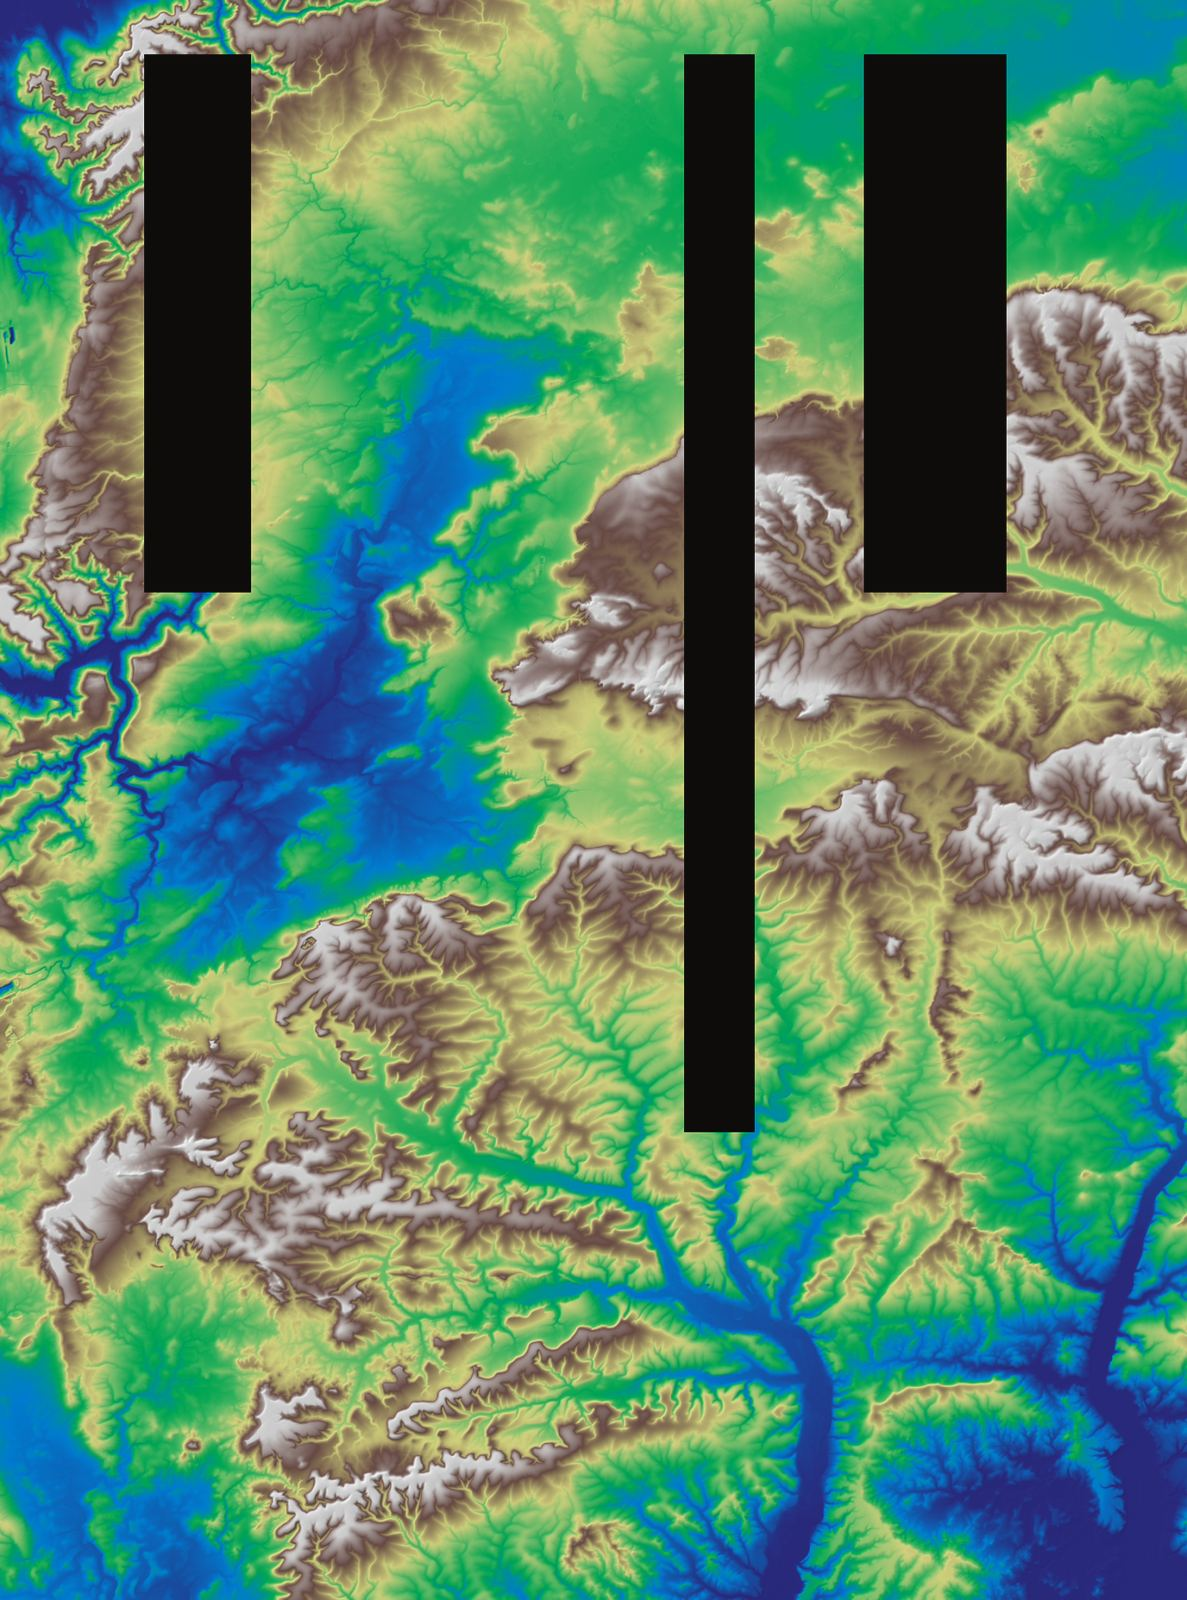
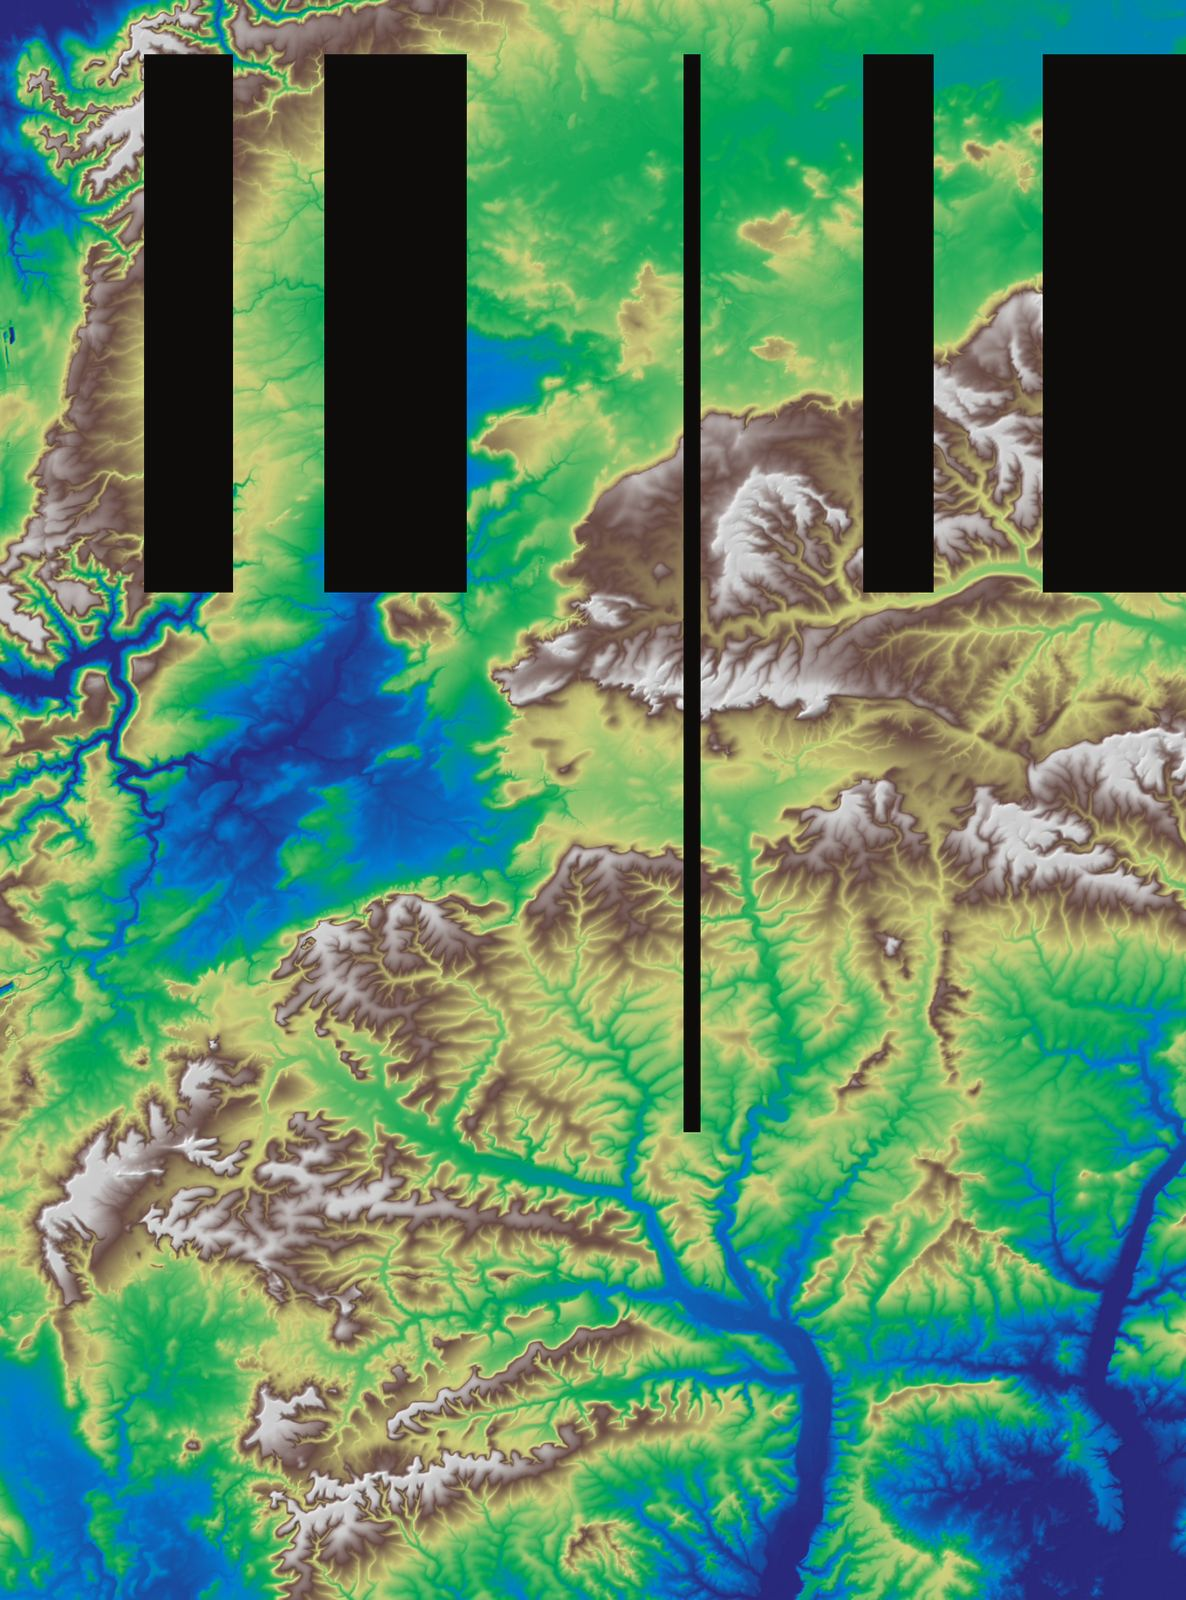
Fix county LiDAR strip-edge black bands and tighten map fit.
Overlap WCS strips by 1000 m and merge with numeric nodata so hillshade
no longer paints abutting-strip gaps as vertical black bands; tighten
default fitBounds padding to [4,4] and drop the outline.js double-fit.

diff --git a/index.html b/index.html
@@ -355,9 +355,9 @@ ROWS.forEach(h => {
 
 const group = L.featureGroup(Object.values(markers));
 if (HAS_OUTLINE && COUNTY_OUTLINE_BOUNDS) {
-  map.fitBounds(COUNTY_OUTLINE_BOUNDS, { padding: [16, 16] });
+  map.fitBounds(COUNTY_OUTLINE_BOUNDS, { padding: [4, 4] });
 } else if (HAS_COUNTY && COUNTY_BOUNDS) {
-  map.fitBounds(COUNTY_BOUNDS, { padding: [12, 12] });
+  map.fitBounds(COUNTY_BOUNDS, { padding: [4, 4] });
 } else {
   map.fitBounds(group.getBounds().pad(0.08));
 }

diff --git a/county-outline.js b/county-outline.js
@@ -46,9 +46,7 @@ function initWiltshireCountyOutline(map) {
         pane: paneName,
         interactive: false
       }).addTo(countyBoundary);
-      try {
-        map.fitBounds(L.polygon(exteriors).getBounds(), { padding: [16, 16] });
-      } catch (e) {}
+      // Zoom owned by generate.py fitBounds(COUNTY_OUTLINE_BOUNDS); do not re-fit here.
     })
     .catch(function(err) { console.warn("Wiltshire outline:", err); });
 }

diff --git a/download_ea_county_dtm.py b/download_ea_county_dtm.py
@@ -1,9 +1,12 @@
-#!/usr/bin/env python3
+#!/usr/bin/env python3
 """Download county-wide EA LIDAR Composite DTM via WCS (heavily downsampled).
 
 Default OSGB bbox covers ceremonial Wiltshire outline (geojson) + ~2 km margin.
 SCALEFACTOR 0.05 → ~20 m cells so a full-county mosaic stays manageable.
 Override with WILTS_COUNTY_BBOX=e0,e1,n0,n1.
+
+Strips overlap (STRIP_OVERLAP_M) so abutting easting windows share valid pixels;
+merge prefers valid data over nodata so hillshade does not paint edge gaps black.
 """
 from __future__ import annotations
 
@@ -30,6 +33,8 @@ UA = {"User-Agent": "wiltshire-long-barrows/1.0 (sarsen.org research)"}
 DEFAULT_BBOX = (372000.0, 438000.0, 114000.0, 203000.0)
 SCALEFACTOR = 0.05  # 1 m × 0.05 → ~20 m
 STRIP_W_M = 14000.0  # wide strips OK at 20 m
+STRIP_OVERLAP_M = 1000.0  # metres of easting overlap between consecutive strips
+NODATA = -9999.0
 
 
 def fetch_strip(e0, e1, n0, n1, out: Path, scalefactor: float) -> Path:
@@ -67,42 +72,80 @@ def fetch_strip(e0, e1, n0, n1, out: Path, scalefactor: float) -> Path:
     return out
 
 
+def _fill_nodata_nearest(grid: np.ndarray, nodata: float) -> np.ndarray:
+    """Fill remaining nodata with nearest valid elevation (keeps hillshade continuous)."""
+    try:
+        from scipy import ndimage
+    except ImportError:
+        print("scipy unavailable — leaving residual nodata unfilled")
+        return grid
+    out = grid.astype(np.float32, copy=True)
+    mask = ~np.isfinite(out) | (out == nodata) | (out < -1000)
+    if not mask.any() or mask.all():
+        return out
+    valid = ~mask
+    idx = ndimage.distance_transform_edt(mask, return_distances=False, return_indices=True)
+    filled = out[tuple(idx)]
+    out[mask] = filled[mask]
+    # Only fill interior gaps; keep true outside envelope as nodata if original edge was nodata
+    # (distance fill above fills everything — acceptable for county mosaic hillshade)
+    return out
+
+
 def main() -> None:
     env = os.environ.get("WILTS_COUNTY_BBOX")
     if env:
         e0, e1, n0, n1 = [float(x) for x in env.split(",")]
     else:
         e0, e1, n0, n1 = DEFAULT_BBOX
-    print(f"county target E {e0:.0f}–{e1:.0f} N {n0:.0f}–{n1:.0f}  SCALEFACTOR={SCALEFACTOR}")
+    print(
+        f"county target E {e0:.0f}–{e1:.0f} N {n0:.0f}–{n1:.0f}  "
+        f"SCALEFACTOR={SCALEFACTOR}  overlap={STRIP_OVERLAP_M:.0f} m"
+    )
 
     strips_dir = OUT_DIR / "strips"
     strips_dir.mkdir(exist_ok=True)
+    # Invalidate abutting (no-overlap) caches — windows differ once overlap is used
+    for old in strips_dir.glob("strip_*.tif"):
+        # Keep only strips named with overlap tag below
+        if "_ov" not in old.name:
+            print("remove obsolete abutting strip", old.name)
+            old.unlink(missing_ok=True)
+
     paths: list[Path] = []
     e = e0
     idx = 0
+    ov_tag = f"ov{int(STRIP_OVERLAP_M)}"
     while e < e1:
         ee = min(e + STRIP_W_M, e1)
-        out = strips_dir / f"strip_{idx:02d}.tif"
+        out = strips_dir / f"strip_{ov_tag}_{idx:02d}.tif"
         if out.is_file() and out.stat().st_size > 50_000:
             try:
                 with rasterio.open(out) as ds:
                     ds.read(1, window=Window(ds.width - 32, ds.height - 32, 32, 32))
                 print("reuse", out)
                 paths.append(out)
-                e = ee
-                idx += 1
-                continue
             except Exception:
                 print("bad cache", out, "— redownloading")
-        fetch_strip(e, ee, n0, n1, out, SCALEFACTOR)
-        paths.append(out)
-        e = ee
+                fetch_strip(e, ee, n0, n1, out, SCALEFACTOR)
+                paths.append(out)
+        else:
+            fetch_strip(e, ee, n0, n1, out, SCALEFACTOR)
+            paths.append(out)
+
+        if ee >= e1:
+            break
+        step = STRIP_W_M - STRIP_OVERLAP_M
+        if step <= 0:
+            raise SystemExit("STRIP_OVERLAP_M must be < STRIP_W_M")
+        e = e + step
         idx += 1
 
-    print("merging", len(paths), "strips…")
+    print("merging", len(paths), "strips (method=first, prefer valid over nodata)…")
     srcs = [rasterio.open(p) for p in paths]
     try:
-        mosaic, transform = merge(srcs, nodata=np.nan)
+        # Use numeric nodata — merge(nodata=nan) cannot detect NaN via equality
+        mosaic, transform = merge(srcs, nodata=NODATA, method="first")
         meta = srcs[0].meta.copy()
     finally:
         for s in srcs:
@@ -116,12 +159,20 @@ def main() -> None:
             "tiled": True,
             "blockxsize": 256,
             "blockysize": 256,
-            "nodata": -9999.0,
+            "nodata": NODATA,
+            "dtype": "float32",
         }
     )
     grid = mosaic[0].astype(np.float32)
-    grid[~np.isfinite(grid)] = -9999.0
-    grid[grid < -1000] = -9999.0
+    bad = ~np.isfinite(grid) | (grid == NODATA) | (grid < -1000)
+    n_bad = int(bad.sum())
+    print(f"nodata/invalid: {n_bad} ({100.0 * n_bad / grid.size:.3f}%)")
+    if os.environ.get("WILTS_FILL_NODATA") == "1" and n_bad and n_bad < grid.size:
+        grid = _fill_nodata_nearest(grid, NODATA)
+        bad = ~np.isfinite(grid) | (grid == NODATA) | (grid < -1000)
+        print(f"nodata/invalid after fill: {int(bad.sum())}")
+    grid[bad] = NODATA
+
     out = OUT_DIR / "wiltshire_county_dtm.tif"
     with rasterio.open(out, "w", **meta) as dst:
         dst.write(grid, 1)

diff --git a/scripts/_make_web_hillshade.py b/scripts/_make_web_hillshade.py
@@ -1,7 +1,13 @@
 #!/usr/bin/env python3
+"""Build mobile JPEG derivative of county hillshade + update bounds metadata."""
+from __future__ import annotations
+
+import json
 from pathlib import Path
+
 from PIL import Image
-ROOT = Path("/workspace/wiltshire-long-barrows")
+
+ROOT = Path(__file__).resolve().parents[1]
 WEB = ROOT / "lidar" / "web"
 src = WEB / "county-hillshade.png"
 im = Image.open(src)
@@ -16,3 +22,13 @@ bg.paste(im2, mask=im2.split()[3] if im2.mode == "RGBA" else None)
 out_jpg = WEB / "county-hillshade.jpg"
 bg.save(out_jpg, "JPEG", quality=78, optimize=True, progressive=True)
 print("jpg", nw, nh, out_jpg.stat().st_size, round(out_jpg.stat().st_size / 1024 / 1024, 3), "MB")
+
+bounds_path = WEB / "county-bounds.json"
+if bounds_path.is_file():
+    meta = json.loads(bounds_path.read_text(encoding="utf-8"))
+    meta["web_asset"] = "county-hillshade.jpg"
+    meta["web_pixels"] = [nw, nh]
+    meta["web_mb"] = round(out_jpg.stat().st_size / 1024 / 1024, 3)
+    meta["web_note"] = "Mobile JPEG derivative (max dim 1600, q78); full PNG retained"
+    bounds_path.write_text(json.dumps(meta, indent=2) + "\n", encoding="utf-8")
+    print("updated", bounds_path)

diff --git a/generate.py b/generate.py
@@ -464,9 +464,9 @@ ROWS.forEach(h => {{
 
 const group = L.featureGroup(Object.values(markers));
 if (HAS_OUTLINE && COUNTY_OUTLINE_BOUNDS) {{
-  map.fitBounds(COUNTY_OUTLINE_BOUNDS, {{ padding: [16, 16] }});
+  map.fitBounds(COUNTY_OUTLINE_BOUNDS, {{ padding: [4, 4] }});
 }} else if (HAS_COUNTY && COUNTY_BOUNDS) {{
-  map.fitBounds(COUNTY_BOUNDS, {{ padding: [12, 12] }});
+  map.fitBounds(COUNTY_BOUNDS, {{ padding: [4, 4] }});
 }} else {{
   map.fitBounds(group.getBounds().pad(0.08));
 }}
